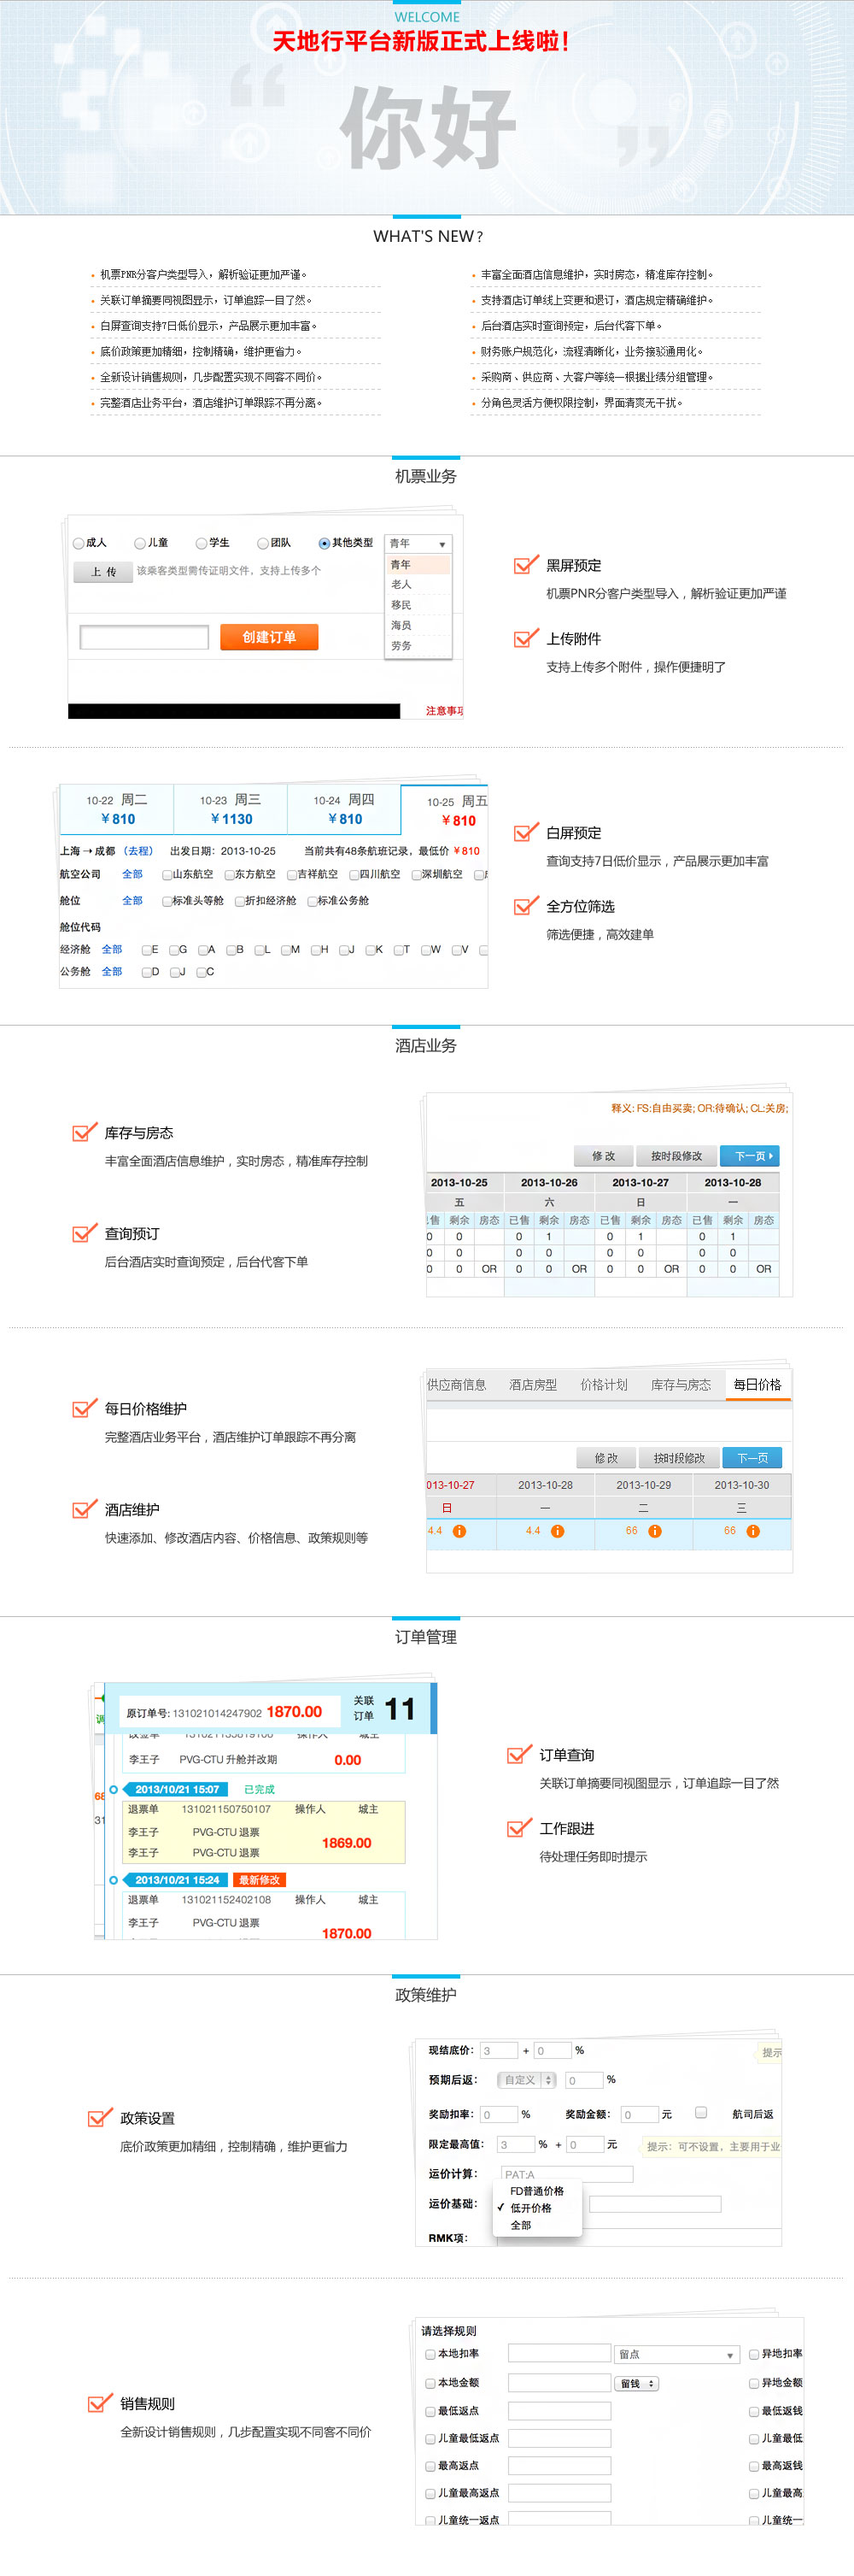
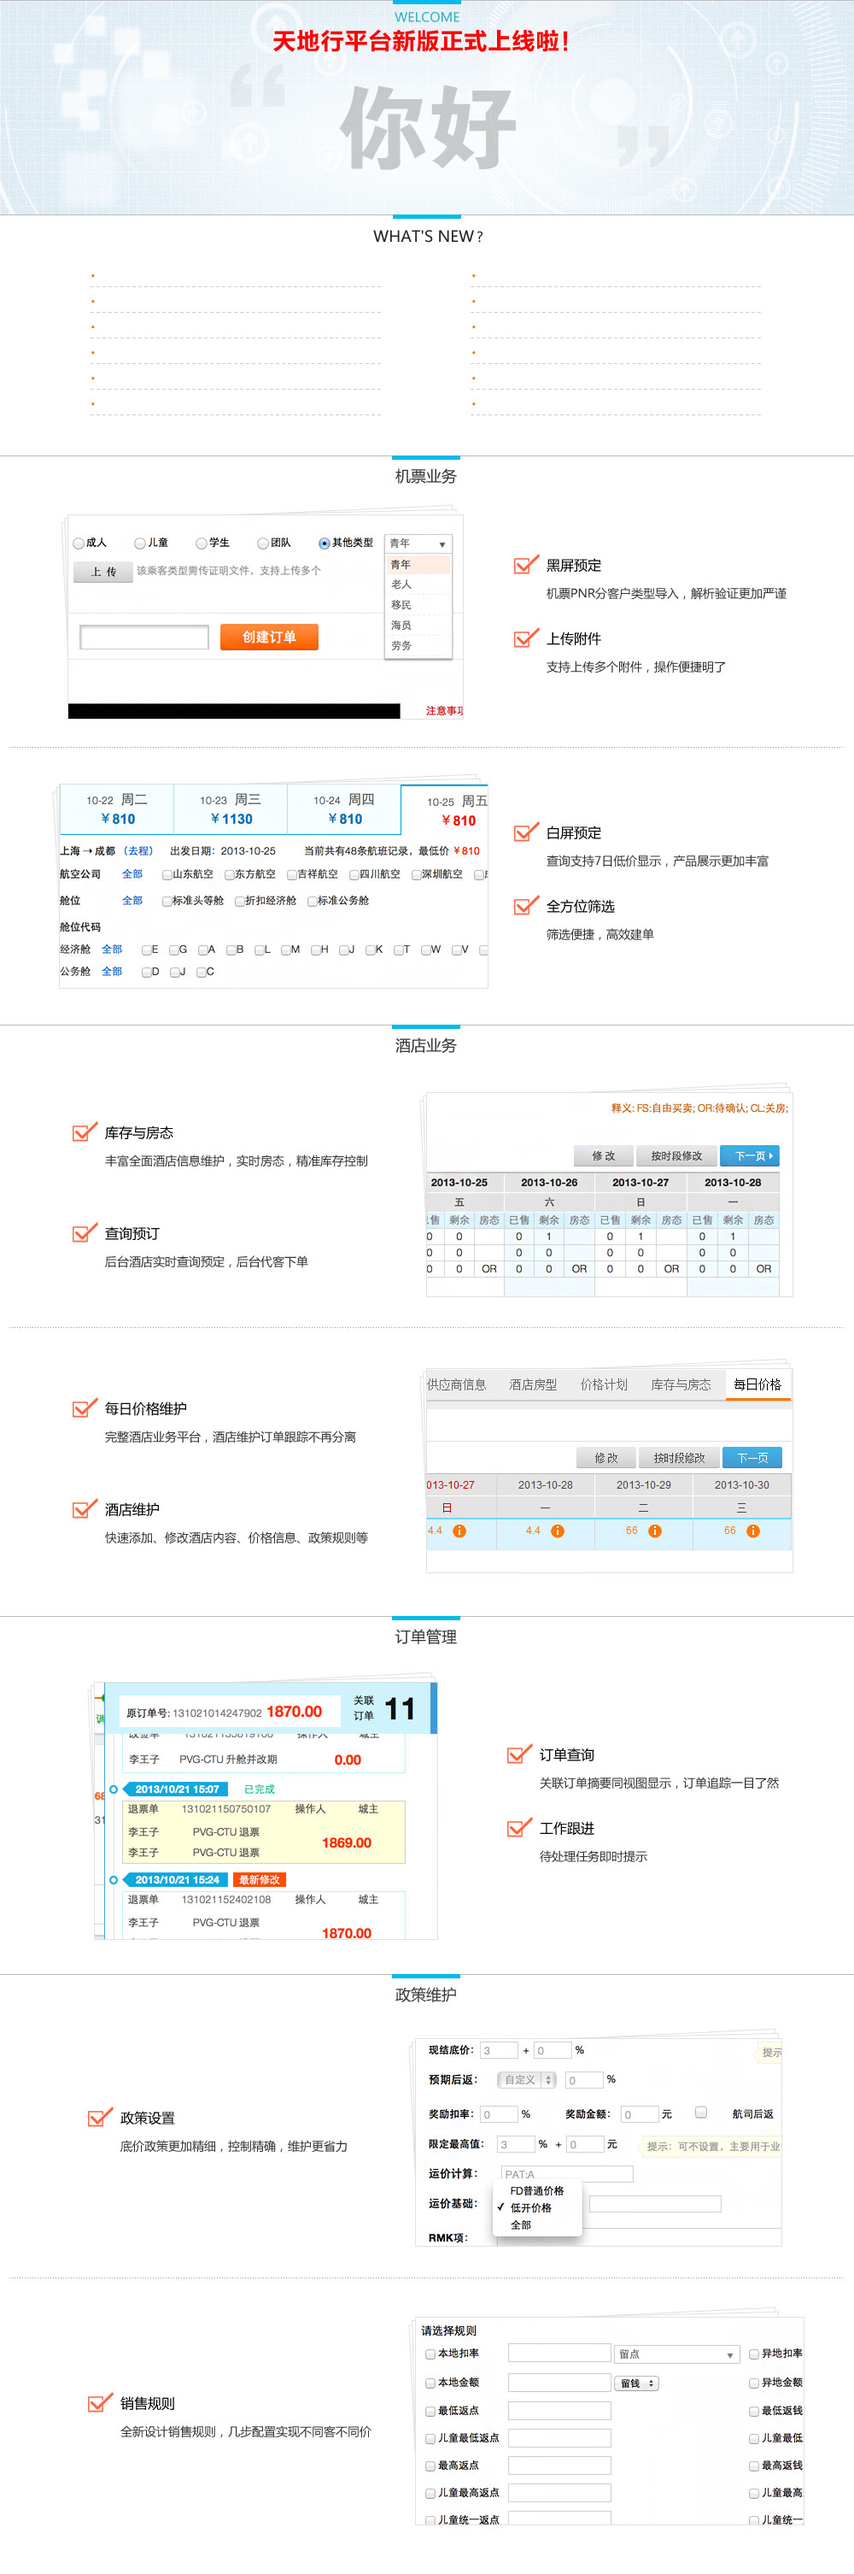
fix 欢迎页

diff --git a/运营商/欢迎页.html b/运营商/欢迎页.html
@@ -54,7 +54,23 @@
     <div id="sub_menu_bar"></div>
     <div id="mainContent">
         <div class="block block-welcome">
-        <span class="username">城主</span>
+            <span class="username">城主</span>
+            <ul class="ul-left">
+                <li>机票PNR分客户类型导入，解析验证更加严谨。</li>
+                <li>关联订单摘要同视图显示，订单追踪一目了然。</li>
+                <li>白屏查询支持7日低价显示，产品展示更加丰富。</li>
+                <li>底价政策更加精细，控制精确，维护更省力。</li>
+                <li>全新设计销售规则，几步配置实现不同客不同价。</li>
+                <li>完整酒店业务平台，酒店维护订单跟踪不再分离。</li>
+            </ul>
+            <ul class="ul-right">
+                <li>丰富全面酒店信息维护，实时房态，精准库存控制。</li>
+                <li>支持酒店订单线上变更和退订，酒店规定精确维护。</li>
+                <li>后台酒店实时查询预定，后台代客下单。</li>
+                <li>财务账户规范化，流程清晰化，业务接驳通用化。</li>
+                <li>采购商、供应商、大客户等统一根据业绩分组管理。</li>
+                <li>分角色灵活方便权限控制，界面清爽无干扰。</li>
+            </ul>
         </div>
     </div>
 </div>

diff --git a/static/css/b2b.css b/static/css/b2b.css
@@ -536,11 +536,12 @@ table.cv-fixed input[type=text],table.cv-fixed textarea{
     padding-top:10px;
     margin-bottom:40px;
 }
+/* welcome to be removed**/
 .block-welcome{
     position:relative;
     height:3012px;
     width:1000px;
-    background:url(../images/welcome.jpg) no-repeat;
+    background:#fff url(../images/welcome.jpg) no-repeat;
 }
 .block-welcome .username{
     color:#444;
@@ -549,6 +550,23 @@ table.cv-fixed input[type=text],table.cv-fixed textarea{
     top:170px;
     font:22px 'Microsoft Yahei',sans-serif;
 }
+.block-welcome ul{
+    top:308px;
+    position:absolute;
+    width:400px;
+}
+.block-welcome li{
+    color:#444;
+    line-height:30px;
+}
+.block-welcome .ul-left{
+    left:120px;
+}
+.block-welcome .ul-right{
+    left:567px;
+}
+
+/* welcome to be removed**/
 body {background-color: #EAEEF0;min-width:980px;}
 a {text-decoration:none; color:#606060;}
 input[type=text] {border:1px solid #cfcfcf;height:20px;line-height:20px\9;}
